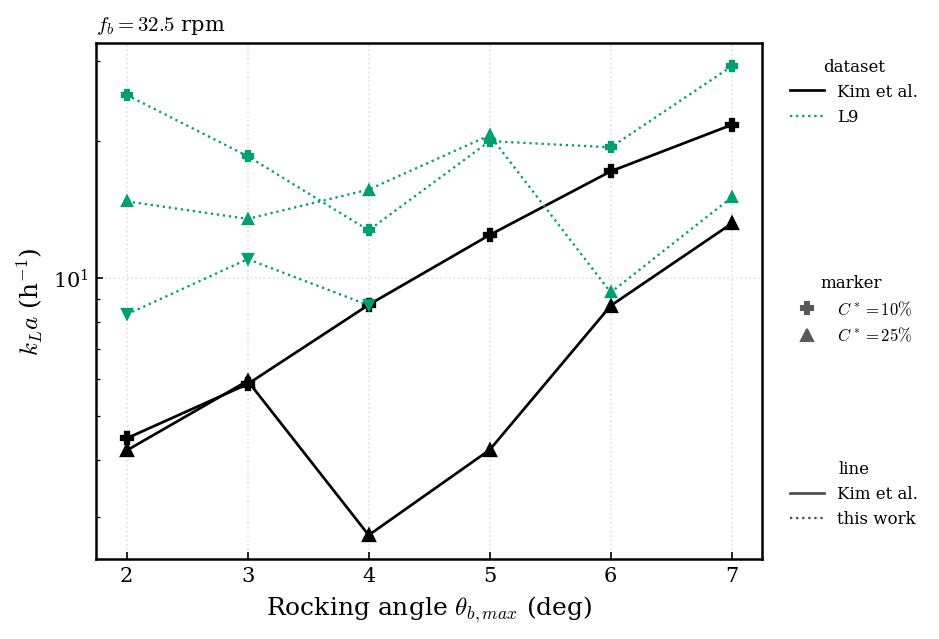
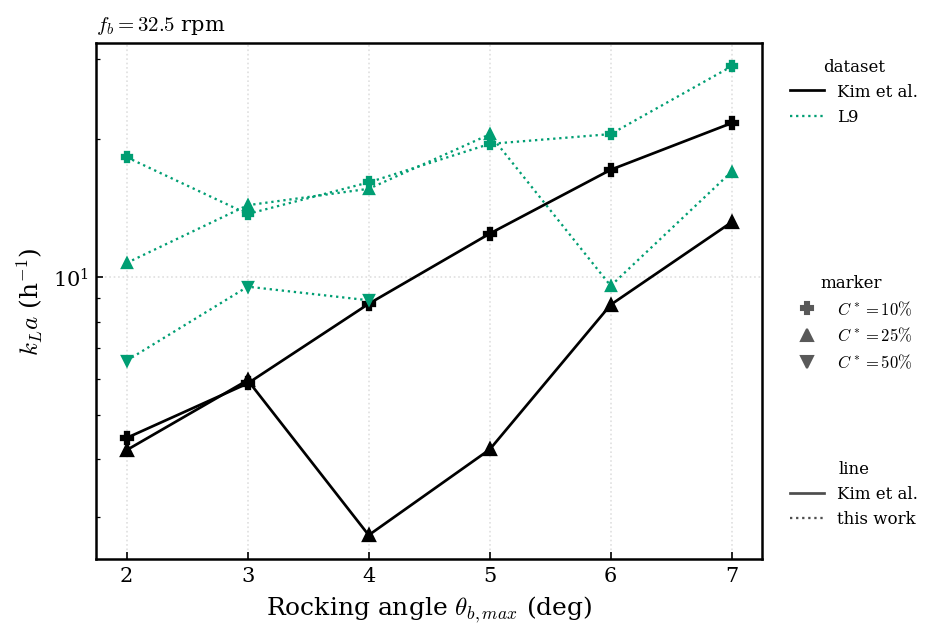
feat(kla): whole-period kLa estimator; Figs 11/12 use it
The 5-point fit spans 0.13 of a rocking period and is phase-locked to the 2 f_b
transfer modulation (+-10-36%). kLa_1T_* fits one full period centred on the
crossing; tested on a synthetic modulated curve (within 3% at every phase vs >15%
for the 5-point fit). Backfilled into existing results.json (keys only).

Claude-Session: https://claude.ai/code/session_01YAKLKMs5oUYu8r6RenvudK

diff --git a/scripts/postprocess.py b/scripts/postprocess.py
@@ -41,6 +41,13 @@ Each is estimated two ways:
   straight line to ln(1−C*) vs time over the 5 data points closest to the
   crossing.  Smoother, less sensitive to noise.
 
+- **Whole-period fit** (``kLa_1T_10``, ``kLa_1T_25``, ``kLa_1T_50``): the
+  same log-linear fit over ONE full rocking period centred on the crossing.
+  This is the cycle-averaged rate. The 5-point fit spans ~0.13 of a period
+  and is phase-locked to the in-cycle modulation (+-10-36% at L9/L10,
+  scripts/diag_kla_phase_lock.py). The 5-point value is kept for
+  protocol-matched comparison with Kim et al.
+
 - **Instantaneous** (``kLa_inst_10``, ``kLa_inst_25``, ``kLa_inst_50``):
   computes dC*/dt at the crossing point via finite differences, then divides by
   (1−C*).  Faster but noisier.
@@ -388,6 +395,40 @@ def _kla_5pt_at_threshold(t: np.ndarray, c_star: np.ndarray,
     cs_win = np.clip(c_star[lo:hi], 0.0, 1.0 - 1e-10)
     y = np.log(1.0 - cs_win)
     slope, _ = np.polyfit(t_win, y, 1)
+    return float(-slope)
+
+
+def _kla_period_at_threshold(t: np.ndarray, c_star: np.ndarray,
+                             threshold: float, T_per_nd: float,
+                             n_periods: int = 1) -> float:
+    """kLa from a log-linear fit over WHOLE rocking periods centred on the crossing.
+
+    Same model as _kla_5pt_at_threshold, ln(1 - C*) = -kLa t + const, fitted over
+    every output sample with |t - t_cross| <= n_periods*T/2, where t_cross is the
+    first sample with C* >= threshold. The 5-sample window spans only ~0.13 of a
+    period (t_out = 0.02, T = 0.607), and oxygen transfer is modulated at 2 f_b
+    within each cycle. Measured on the L9/L10 runs (scripts/diag_kla_phase_lock.py,
+    2026-10-01): the sliding 5-sample kLa oscillates by 8-40%, the 5-sample /
+    one-period ratio spans 0.83-1.36, and two round-off repeats differ by 30%
+    (5-sample) vs 6.8% (one period).
+
+    Returns NaN if the threshold is never reached, or if the window would reach
+    past the end of the series or back before the release (C* still zero),
+    rather than silently fitting a truncated window.
+    """
+    if len(t) < MIN_WINDOW:
+        return math.nan
+    k = int(np.argmax(c_star >= threshold))
+    if c_star[k] < threshold:
+        return math.nan
+    half = 0.5 * n_periods * T_per_nd
+    t_lo, t_hi = t[k] - half, t[k] + half
+    released = np.nonzero(c_star > 0.0)[0]
+    if t_hi > t[-1] or not released.size or t_lo < t[released[0]]:
+        return math.nan
+    m = (t >= t_lo) & (t <= t_hi)
+    y = np.log(1.0 - np.clip(c_star[m], 0.0, 1.0 - 1e-10))
+    slope, _ = np.polyfit(t[m], y, 1)
     return float(-slope)
 
 
@@ -892,6 +933,7 @@ def main(run_dir: str, params: dict | None = None) -> dict:
     nan_base = {
         "kLa_10": math.nan, "kLa_25": math.nan, "kLa_50": math.nan,
         "kLa_inst_10": math.nan, "kLa_inst_25": math.nan, "kLa_inst_50": math.nan,
+        "kLa_1T_10": math.nan, "kLa_1T_25": math.nan, "kLa_1T_50": math.nan,
         "dtmix_0.50": math.nan, "dtmix_0.75": math.nan, "dtmix_0.95": math.nan,
         "vor_mean": math.nan,
         "vor_streaming": math.nan,
@@ -911,7 +953,7 @@ def main(run_dir: str, params: dict | None = None) -> dict:
         (path / "results.json").write_text(json.dumps(nan_base, indent=2))
         return nan_base
 
-    T_bio, _ = _t_scales(params)
+    T_bio, T_per_nd = _t_scales(params)
     kla_to_h = 3600.0 / T_bio   # 1/t_nd → h⁻¹  (t_nd = t_dim/T_bio, so kLa_nd/T_bio = kLa_s)
 
     results = {
@@ -921,6 +963,10 @@ def main(run_dir: str, params: dict | None = None) -> dict:
         "kLa_inst_10": _kla_inst_at_threshold(t, c_star, 0.10) * kla_to_h,
         "kLa_inst_25": _kla_inst_at_threshold(t, c_star, 0.25) * kla_to_h,
         "kLa_inst_50": _kla_inst_at_threshold(t, c_star, 0.50) * kla_to_h,
+        # whole-period fits: the cycle-averaged rate (see _kla_period_at_threshold)
+        "kLa_1T_10":   _kla_period_at_threshold(t, c_star, 0.10, T_per_nd) * kla_to_h,
+        "kLa_1T_25":   _kla_period_at_threshold(t, c_star, 0.25, T_per_nd) * kla_to_h,
+        "kLa_1T_50":   _kla_period_at_threshold(t, c_star, 0.50, T_per_nd) * kla_to_h,
     }
     results.update(_compute_mixing_metrics(path, params))
     results["vor_mean"]          = _compute_vor_mean(path, params)
@@ -992,6 +1038,7 @@ def _register_to_experiment_store(run_dir: Path, params: dict,
     row_out = {k: results.get(k, float("nan")) for k in (
         "kLa_10", "kLa_25", "kLa_50",
         "kLa_inst_10", "kLa_inst_25", "kLa_inst_50",
+        "kLa_1T_10", "kLa_1T_25", "kLa_1T_50",
         "dtmix_0.50", "dtmix_0.75", "dtmix_0.95",
         "vor_mean",
         "vel_rms_qss", "kla_fit_rmse_25",

diff --git a/scripts/plot_fig11_fig12.py b/scripts/plot_fig11_fig12.py
@@ -6,13 +6,13 @@ and 10 and 12 are another ("Fig. 10,12"), the same runs scored two ways.
 postprocess emits kLa alongside dtmix from every run, so neither figure here
 costs a single new cycle.
 
-Estimators map one-to-one onto Kim's columns, and the names were taken from
-his: our ``kLa_10/25/50`` is his ``kLa_exp5pts_*`` (a 5-point log-linear fit
-of ln(1-C*) around the crossing) and our ``kLa_inst_*`` is his ``kLa_inst_*``
-(a finite-difference dC*/dt at the crossing, divided by 1-C*). The panels draw
-the 5-point fit, which is the smoother of the two; the printed table carries
-both, because where they disagree the oxygen curve is noisy and neither number
-should be read as settled.
+Our points are the WHOLE-PERIOD kLa, ``kLa_1T_*``: a log-linear fit of
+ln(1-C*) over one full rocking period centred on the crossing, i.e. the
+cycle-averaged rate. Kim's curve is his ``kLa_exp5pts_*``, a 5-point fit. A
+5-point window spans ~0.13 of a period, and the transfer rate is modulated at 2 f_b,
+so that estimator is phase-locked: +-10-36% per point at L9/L10
+(scripts/diag_kla_phase_lock.py, 2026-10-01). Our own 5-point value
+(``kLa_25``) is printed beside it for the protocol-matched comparison.
 
 Marker shape is the saturation threshold and colour is the dataset, the same
 encoding as the Fig 9 replica. Levels are never blended: a coarser grid is a
@@ -47,11 +47,11 @@ C_KIM = fs.KIM
 LEVEL_COLOUR = fs.LEVEL_COLOUR
 # (our key, Kim's column, marker, label). The C* family is ordered to match
 # Fig 9's chi family, so the loosest criterion is "v" in both.
-THRESHOLDS = [("kLa_10", "kLa_exp5pts_10", fs.threshold_marker("cstar", 10),
+THRESHOLDS = [("kLa_1T_10", "kLa_exp5pts_10", fs.threshold_marker("cstar", 10),
                r"$C^*=10\%$"),
-              ("kLa_25", "kLa_exp5pts_25", fs.threshold_marker("cstar", 25),
+              ("kLa_1T_25", "kLa_exp5pts_25", fs.threshold_marker("cstar", 25),
                r"$C^*=25\%$"),
-              ("kLa_50", "kLa_exp5pts_50", fs.threshold_marker("cstar", 50),
+              ("kLa_1T_50", "kLa_exp5pts_50", fs.threshold_marker("cstar", 50),
                r"$C^*=50\%$")]
 
 FIG11 = {
@@ -83,9 +83,7 @@ def collect(spec: dict) -> pd.DataFrame:
                          "run_id": tmpl.format(v=v),
                          **{k: d.get(k, math.nan)
                             for k, _, _, _ in THRESHOLDS},
-                         **{f"inst_{k}": d.get(f"kLa_inst_{k.split('_')[1]}",
-                                               math.nan)
-                            for k, _, _, _ in THRESHOLDS}})
+                         "kLa_5pt_25": d.get("kLa_25", math.nan)})
     return pd.DataFrame(rows)
 
 
@@ -96,15 +94,15 @@ def draw(spec: dict) -> None:
 
     print(f"\n{spec['out']}")
     print(f"{'run':<28} {'lvl':>3} {'x':>6} "
-          f"{'kLa25':>8} {'inst25':>8} {'Kim25':>8} {'ratio':>7}")
+          f"{'1T_25':>8} {'5pt_25':>8} {'Kim25':>8} {'1T/Kim':>7} {'5pt/Kim':>7}")
     kim_idx = kim.set_index(spec["x"])
     for _, r in ours.iterrows():
         k25 = (float(kim_idx.loc[r["x"], "kLa_exp5pts_25"])
                if r["x"] in kim_idx.index
                and "kLa_exp5pts_25" in kim_idx.columns else math.nan)
         print(f"{r['run_id']:<28} {r['level']:>3.0f} {r['x']:>6.1f} "
-              f"{r['kLa_25']:>8.2f} {r['inst_kLa_25']:>8.2f} "
-              f"{k25:>8.2f} {r['kLa_25'] / k25:>7.3f}")
+              f"{r['kLa_1T_25']:>8.2f} {r['kLa_5pt_25']:>8.2f} "
+              f"{k25:>8.2f} {r['kLa_1T_25'] / k25:>7.3f} {r['kLa_5pt_25'] / k25:>7.3f}")
 
     fig, ax = plt.subplots(figsize=(6.4, 4.4))
     for _, kim_col, marker, label in THRESHOLDS:
@@ -136,8 +134,12 @@ def draw(spec: dict) -> None:
                         label=f"L{int(lv)}")
                  for lv in (sorted(ours["level"].unique())
                             if not ours.empty else [])]
+    # a threshold is keyed if EITHER dataset draws it (Kim's angle block has
+    # no 50% column, but our runs do)
     marks = [Line2D([], [], color="0.35", marker=m, ls="none", ms=6, label=lab)
-             for _, kim_col, m, lab in THRESHOLDS if kim_col in kim.columns]
+             for our_col, kim_col, m, lab in THRESHOLDS
+             if kim_col in kim.columns
+             or (not ours.empty and ours[our_col].notna().any())]
     prov = [Line2D([], [], color="0.3", ls="-", lw=fs.LW_KIM,
                    label="Kim et al."),
             Line2D([], [], color="0.3", ls=":", lw=fs.LW_OURS,

diff --git a/scripts/backfill_kla_1T.py b/scripts/backfill_kla_1T.py
@@ -1,0 +1,61 @@
+"""Add kLa_1T_{10,25,50} to existing results.json files, touching nothing else.
+
+The whole-period kLa (postprocess._kla_period_at_threshold, 2026-10-01) is new.
+Re-running postprocess.main on old runs would recompute every KPI with today's
+code, so this script only ADDS the three new keys, computed from the run's own
+oxygen series (chain-joined, as postprocess does).
+
+Usage:  uv run python scripts/backfill_kla_1T.py [--dry-run] [glob ...]
+"""
+from __future__ import annotations
+
+import argparse
+import json
+import math
+import sys
+from pathlib import Path
+
+ROOT = Path(__file__).resolve().parents[1]
+sys.path.insert(0, str(ROOT))
+from scripts.postprocess import _compute_c_star, _kla_period_at_threshold, _t_scales  # noqa: E402
+
+
+def backfill(run: Path, dry: bool) -> str:
+    res, prm = run / "results.json", run / "params.json"
+    if not (res.exists() and prm.exists() and (run / "tr_oxy.dat").exists()):
+        return "skip"
+    params = json.loads(prm.read_text())
+    try:
+        t, c = _compute_c_star(run)
+    except (FileNotFoundError, ValueError):
+        return "skip"
+    T_bio, T_per = _t_scales(params)
+    to_h = 3600.0 / T_bio
+    new = {f"kLa_1T_{p}": _kla_period_at_threshold(t, c, p / 100, T_per) * to_h
+           for p in (10, 25, 50)}
+    if all(math.isnan(v) for v in new.values()):
+        return "nan"
+    if not dry:
+        d = json.loads(res.read_text())
+        d.update(new)
+        res.write_text(json.dumps(d, indent=2))
+    return "ok " + " ".join(f"{v:.3g}" for v in new.values())
+
+
+def main() -> None:
+    ap = argparse.ArgumentParser()
+    ap.add_argument("globs", nargs="*", default=["*"])
+    ap.add_argument("--dry-run", action="store_true")
+    a = ap.parse_args()
+    runs = sorted({p for g in a.globs for p in (ROOT / "runs").glob(g) if p.is_dir()})
+    counts = {}
+    for r in runs:
+        s = backfill(r, a.dry_run)
+        counts[s.split()[0]] = counts.get(s.split()[0], 0) + 1
+        if s.startswith("ok") and any(k in r.name for k in ("fig9_", "fig10_", "fig11_")):
+            print(f"  {r.name:28s} {s}")
+    print(counts)
+
+
+if __name__ == "__main__":
+    main()

diff --git a/tests/test_kla_period.py b/tests/test_kla_period.py
@@ -1,0 +1,58 @@
+"""The whole-period kLa must not depend on where in the rocking cycle C* crosses.
+
+Synthetic oxygen curve with a known mean transfer rate k and an in-cycle
+modulation at 2 f_b, as measured in the L9/L10 runs (diag_kla_phase_lock.py,
+2026-10-01):
+
+    d ln(1 - C*)/dt = -k (1 + a cos(4 pi t / T))
+ => ln(1 - C*) = -k t - (k a T / 4 pi) sin(4 pi t / T)
+
+A fit over one whole period recovers k to a few percent at every phase; the
+5-sample fit does not. That contrast is the bug being fixed.
+"""
+import math
+
+import numpy as np
+import pytest
+
+from scripts.postprocess import _kla_5pt_at_threshold, _kla_period_at_threshold
+
+T, DT, K, A = 0.6073, 0.02, 0.05, 0.3
+
+
+def curve(shift):
+    t = np.arange(0.0, 40.0, DT)
+    lnr = -K * t - (K * A * T / (4 * math.pi)) * np.sin(4 * math.pi * (t + shift) / T)
+    return t, 1.0 - np.exp(lnr)
+
+
+@pytest.mark.parametrize("shift", np.linspace(0, T, 9, endpoint=False))
+def test_one_period_fit_recovers_the_mean_rate_at_every_phase(shift):
+    t, c = curve(shift)
+    assert _kla_period_at_threshold(t, c, 0.25, T) == pytest.approx(K, rel=0.03)
+
+
+def test_five_sample_fit_is_phase_dependent_on_the_same_curves():
+    # negative control: the old estimator misses k by > 15% at some phase
+    errs = [abs(_kla_5pt_at_threshold(*curve(s), 0.25) / K - 1)
+            for s in np.linspace(0, T, 9, endpoint=False)]
+    assert max(errs) > 0.15
+
+
+def test_window_running_past_the_data_returns_nan():
+    t, c = curve(0.0)
+    keep = c < 0.26                     # series ends right after the crossing
+    assert math.isnan(_kla_period_at_threshold(t[keep], c[keep], 0.25, T))
+
+
+def test_window_reaching_back_before_release_returns_nan():
+    t, c = curve(0.0)
+    c = np.where(t < 5.0, 0.0, c)       # nothing before release at t = 5
+    k = int(np.argmax(c >= 0.10))
+    assert t[k] - 5.0 < T / 2           # the 10% crossing is within half a period of release
+    assert math.isnan(_kla_period_at_threshold(t, c, 0.10, T))
+
+
+def test_threshold_never_reached_returns_nan():
+    t, c = curve(0.0)
+    assert math.isnan(_kla_period_at_threshold(t, c * 0.2, 0.25, T))

diff --git a/BACKLOG.md b/BACKLOG.md
@@ -50,4 +50,4 @@ item starts, give it a diary entry; when it lands, delete it here.
 - Reproducibility of production kLa: at L4, OpenMP round-off moves kLa_50 by 2x (diag_omp_determinism.py). Test whether L7 kLa changes with MPI rank count (8 vs 16). If it does, kLa error bars need a round-off/chaos term.
 - t_end period rounding: FIXED in source (2026-09-30). Production scratch binaries still use the old rule; picked up at the next production rebuild.
 - Fig 13 MF figures still use the old buggy 3-grid u_bar (0.24/0.30). Faithful E&H gives 0.5-1.5 (diag_eh_ubar.py). Decide: apply it, or get L11 grids.
-- kLa 5-sample estimator CONFIRMED phase-locked (diag_kla_phase_lock.py): +-10-36% per point. Decide whether to switch figures to the whole-period kLa.
+- kLa: whole-period estimator adopted in Figs 11/12 (2026-10-01). Still open: re-check mixing time (dtmix) the same way; the CI restart test still uses the 5-point kLa.
